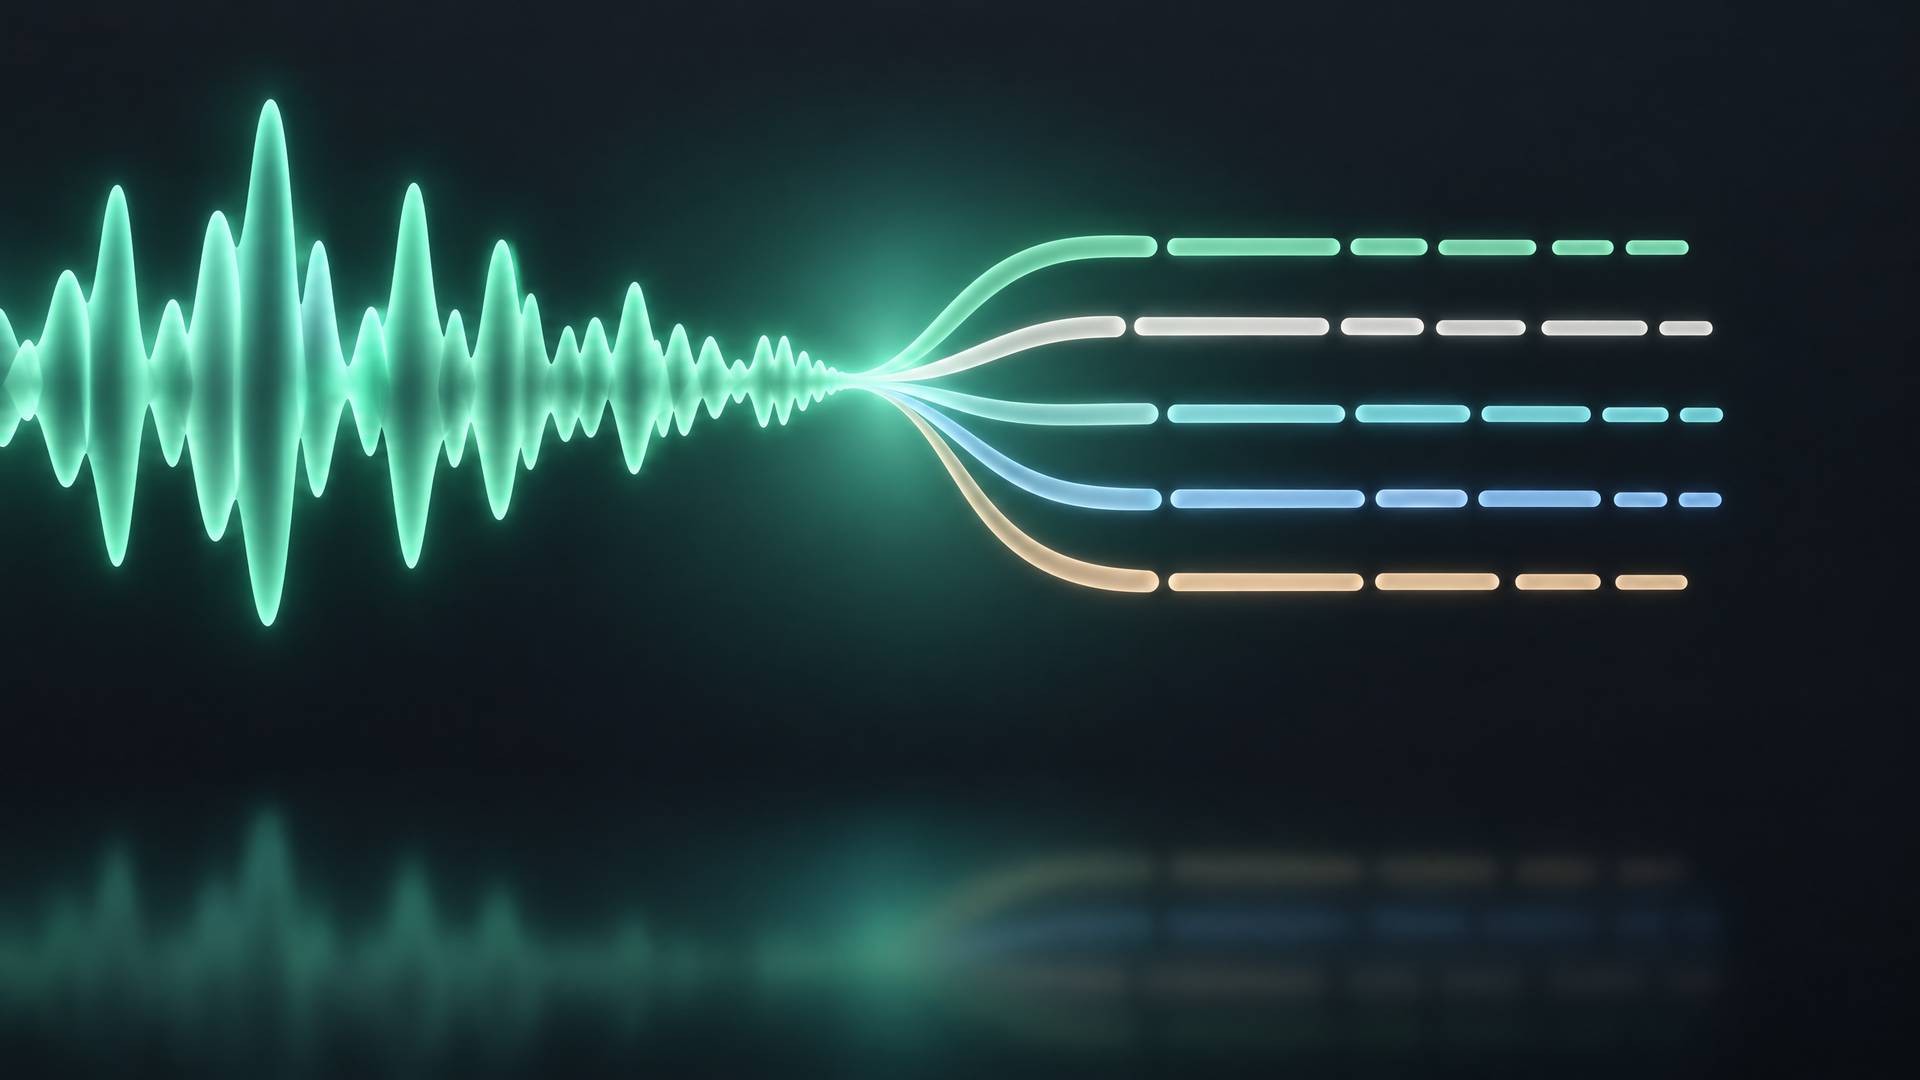
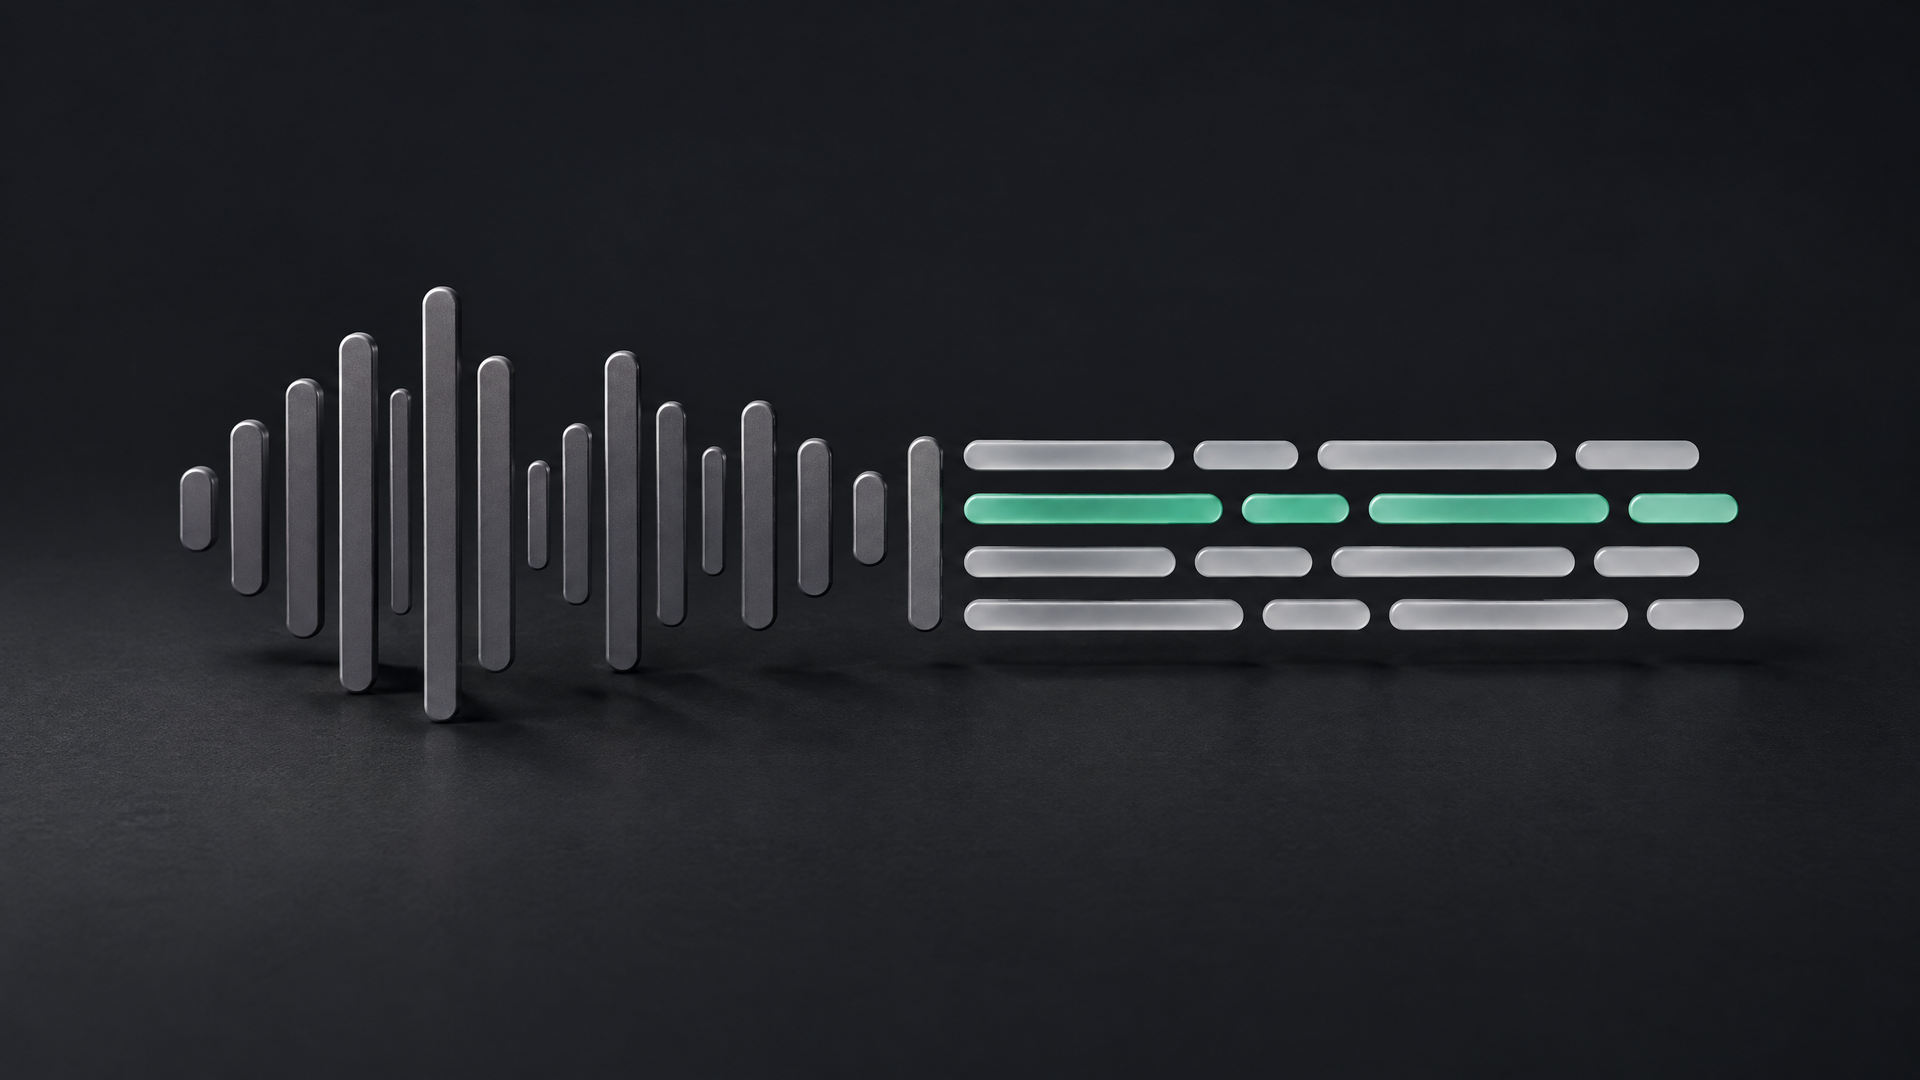
docs: new hero art for the home page, Store listing and social previews
A studio still life replaces the glowing-tube rendering: graphite bars
shaped like a speech wave lie down into four rows of frosted-glass caption
bars, one in the accent mint. Generated with OpenAI gpt-image-2.6-flare at
high quality, chosen against a Gemini rendering of the same prompt; the
prompt and model are in super-hero-art.png.json.

- docs/store-screenshots/super-hero-art.png: the render at 1920x1080.
- docs/assets/hero.jpg: a crop with the floor masked and the ground set to
  pure black; the page blends it into the band with mix-blend-mode:
  lighten instead of the radial mask, which showed the new art's neutral
  ground as a grey ellipse. New alt text, and a credit in the footer.
- Open Graph: og:image is now a 1280x640 card (assets/social-card.jpg)
  with its size and alt text, plus twitter:card summary_large_image.
- .github/social-preview.svg/.png: the wordmark over the new art, in place
  of the mock caption panel; the same card as social-card.jpg.
- The Store screenshots README and the Partner Center walkthrough say the
  art changed and must be replaced in each listing.

diff --git a/docs/index.html b/docs/index.html
@@ -34,8 +34,15 @@
 		/>
 		<meta
 			property="og:image"
-			content="https://fmadore.github.io/Live-translation/assets/hero.jpg"
+			content="https://fmadore.github.io/Live-translation/assets/social-card.jpg"
 		/>
+		<meta property="og:image:width" content="1280" />
+		<meta property="og:image:height" content="640" />
+		<meta
+			property="og:image:alt"
+			content="Live Translation &amp; Subtitles: metal bars shaped like a sound wave lie down into lines of glass captions."
+		/>
+		<meta name="twitter:card" content="summary_large_image" />
 		<meta property="og:url" content="https://fmadore.github.io/Live-translation/" />
 		<link
 			rel="icon"
@@ -349,11 +356,13 @@
 				font-size: 1.125rem;
 				max-width: 34rem;
 			}
-			/* The art's own dark ground fades into the band, so no edge of the picture shows. */
+			/* The art's ground is pure black, so lighten lets the band show through it and no
+			   edge of the picture shows. */
 			.hero-art {
 				margin: 0;
-				-webkit-mask-image: radial-gradient(closest-side, #000 72%, transparent 100%);
-				mask-image: radial-gradient(closest-side, #000 72%, transparent 100%);
+			}
+			.hero-art img {
+				mix-blend-mode: lighten;
 			}
 			.get {
 				display: flex;
@@ -901,7 +910,7 @@
 						src="assets/hero.jpg"
 						width="1600"
 						height="900"
-						alt="A glowing speech waveform that splits into five coloured lines of captions."
+						alt="Metal bars shaped like a sound wave lie down into four lines of glass captions, one of them mint green."
 						fetchpriority="high"
 					/>
 				</figure>
@@ -1499,6 +1508,7 @@
 					</li>
 				</ul>
 				<p>Live Translation &amp; Subtitles is free and open source, under the MIT license.</p>
+				<p>The illustration at the top of this page was generated with OpenAI GPT Image.</p>
 				<p>
 					Zoom is a trademark of Zoom Communications, Inc. Live Translation &amp; Subtitles is not
 					affiliated with or endorsed by Zoom.

diff --git a/docs/store-screenshots/README.md b/docs/store-screenshots/README.md
@@ -84,15 +84,24 @@ account or personal window. In `6-history.png` macOS capitalised the search word
 
 `super-hero-art.png` is the listing's 16:9 Super hero art, uploaded under **Trailers and
 additional assets**, where the Store shows it at the top of the listing and in promotional
-layouts. It is an illustration generated with OpenAI GPT Image (`gpt-image-2.5-flare`, high
-quality, 28 October 2026), rendered at 2560×1440 and resized to 1920×1080; the prompt and
-model are in `super-hero-art.png.json`, kept beside it.
+layouts. It is an illustration generated with OpenAI GPT Image (`gpt-image-2.6-flare`, high
+quality, 24 November 2026), rendered at 2560×1440 and resized to 1920×1080; the prompt and
+model are in `super-hero-art.png.json`, kept beside it. It replaced a glowing-tube rendering
+of the same idea, chosen against a Gemini (`gemini-nano-banana-2.1`) rendering of the same
+prompt.
 
-It extends the icon's wave-to-words mark: a speech wave splits at the centre into five
-caption lines, each tinted for a different language. Microsoft's rules for this image
-exclude text, app UI, devices and flags, and ask for the key content in the centre and out
-of the bottom third. It has no text, so one file serves every language. To change it, edit
-the prompt from the sidecar, draft at low quality, and keep the new sidecar with the image.
+It extends the icon's wave-to-words mark as a quiet studio object: graphite bars shaped like a
+speech wave lie down at the centre into four rows of frosted-glass caption bars, one in the
+accent mint. Microsoft's rules for this image exclude text, app UI, devices and flags, and ask
+for the key content in the centre and out of the bottom third. It has no text, so one file
+serves every language.
+
+The same render makes the home page's hero (`docs/assets/hero.jpg`) and the art of the
+repository's social preview (`.github/social-preview-art.jpg`): crops with the floor outside
+the sculpture masked and the black point raised, so the ground is pure black and the page
+blends it into the dark band with `mix-blend-mode: lighten`. The sidecar's `postprocess`
+records the steps. To change the art, edit the prompt from the sidecar, draft at low quality,
+render the final once, and regenerate all three files and the social preview together.
 
 ## Recapturing
 

diff --git a/docs/partner-center-walkthrough.md b/docs/partner-center-walkthrough.md
@@ -181,8 +181,10 @@ that listing if it is not already present. For each language, paste:
    supplémentaires* › *Image de Windows et de Xbox* › *Image de super héros 16:9*; expand the
    section if its details are hidden): upload
    [`super-hero-art.png`](store-screenshots/super-hero-art.png) (1920 × 1080). It has no text,
-   so the same file goes into every listing language. Leave the **Xbox images** slots empty:
-   their 1920 × 1080 titled hero art must carry the product title.
+   so the same file goes into every listing language. The art was replaced on 24 November 2026
+   (graphite bars becoming glass caption lines), so replace the image already in each listing.
+   Leave the **Xbox images** slots empty: their 1920 × 1080 titled hero art must carry the
+   product title.
 
 The package's tiles and `StoreLogo` carry the wave-to-words icon, unchanged since 1.6.1, so the
 bundle leaves the icon the Store takes from the package as it is. Since 1.7.1 the package also
